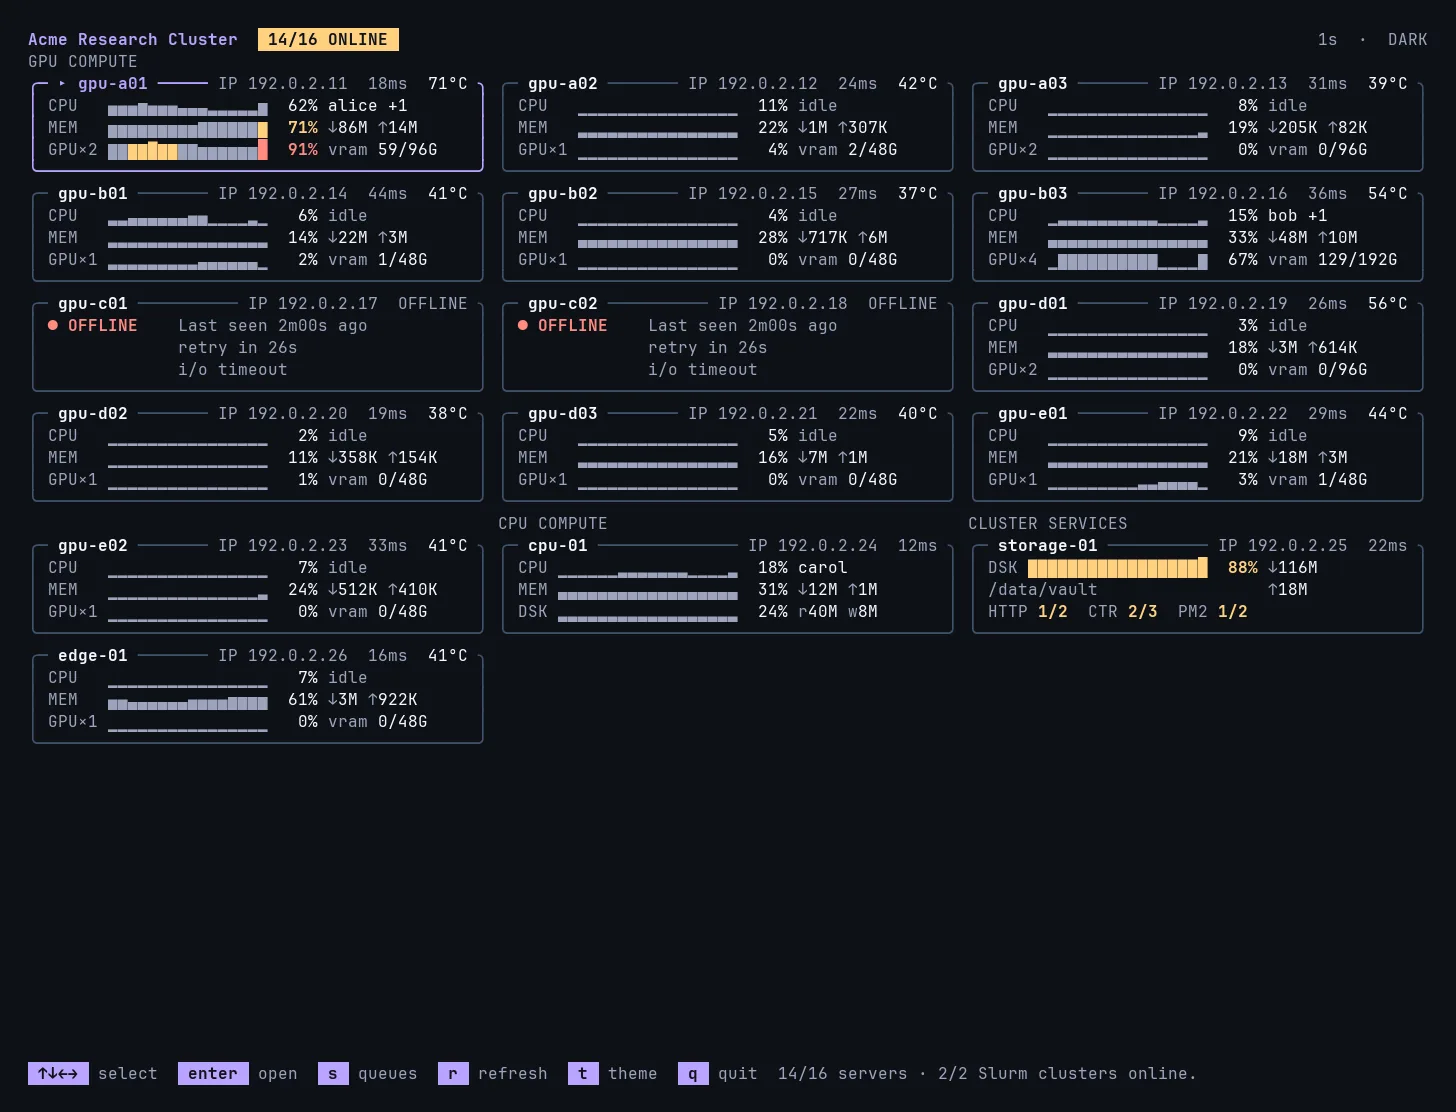
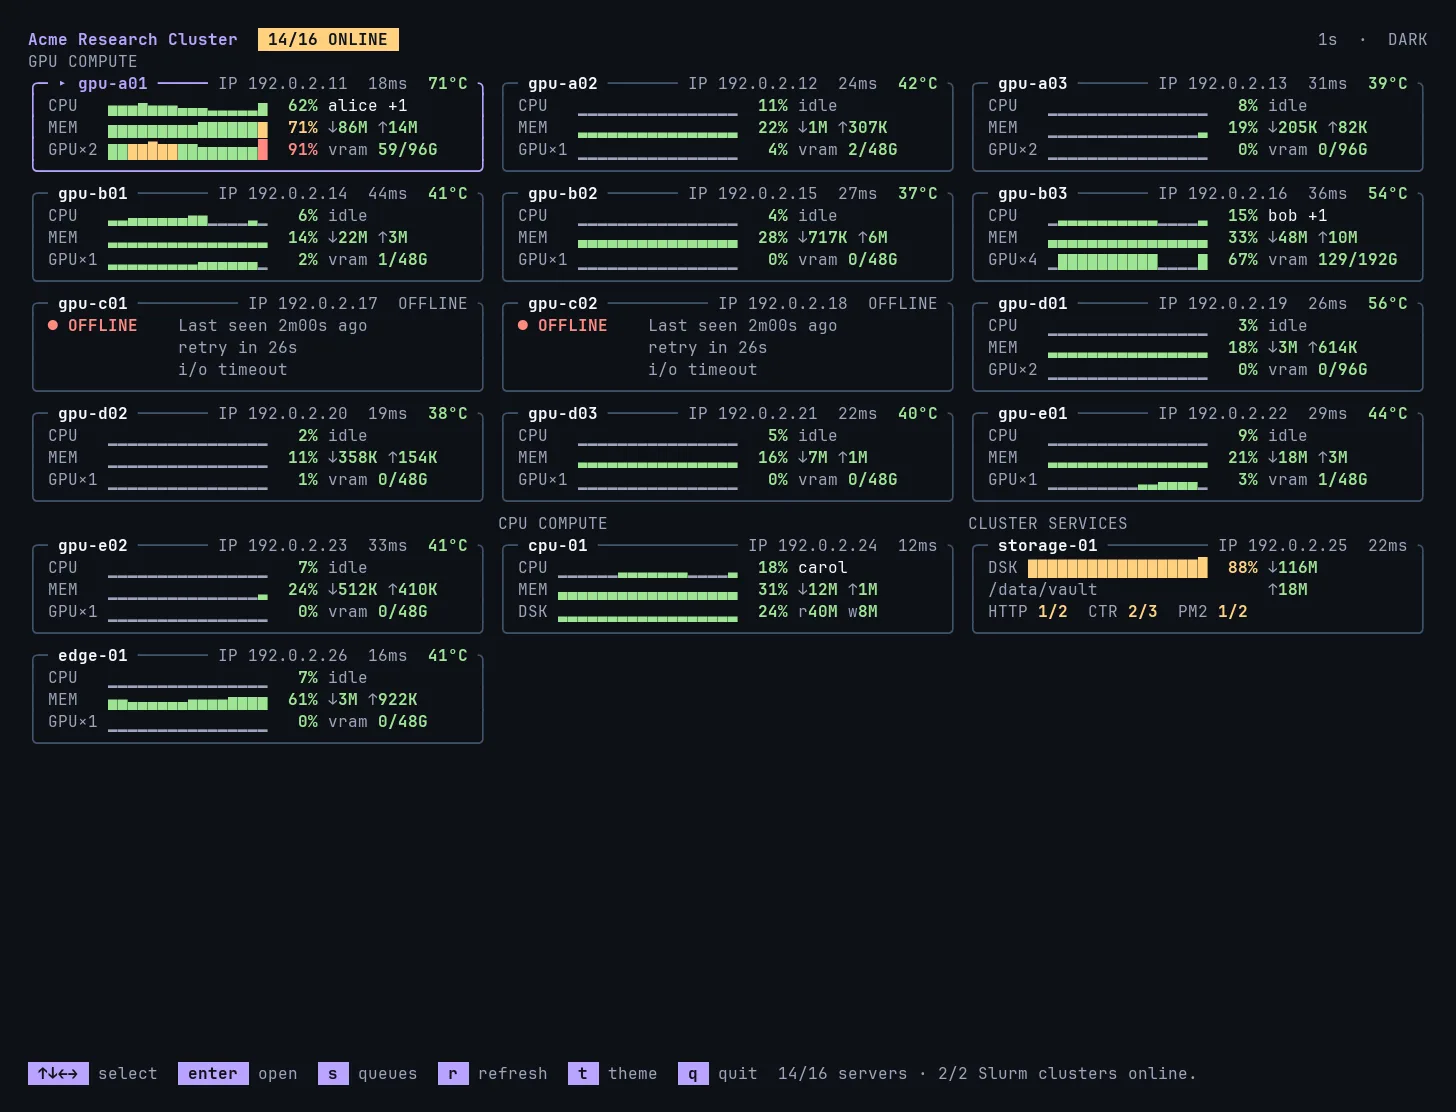
Color hub load, temperature, VRAM, and throughput by state.
Healthy sparkline columns and percents are the ok green on every card, while the idle baseline stays dim. Temperature, VRAM fill, and each throughput direction use the same scale; without a reported link speed, rates warn at 500 MiB/s and turn red at 1 GiB/s.

diff --git a/cmd/fleetty/hub.go b/cmd/fleetty/hub.go
@@ -1620,14 +1620,13 @@ func hubFixedSparkline(values []float64, width int) string {
 		if level >= len(blocks) {
 			level = len(blocks) - 1
 		}
-		style := dimStyle
-		switch usageLevel(value) {
-		case stateWarn:
-			style = warningStyle
-		case stateCrit:
-			style = dangerStyle
+		// The flat baseline stays dim so an idle row is present but quiet.
+		// Taller columns use ok / warn / crit, on every card.
+		if level == 0 {
+			parts[index] = dimStyle.Render(string(blocks[0]))
+			continue
 		}
-		parts[index] = style.Render(string(blocks[level]))
+		parts[index] = hubMeterStyle(usageLevel(value)).Render(string(blocks[level]))
 	}
 	return strings.Join(parts, "")
 }
@@ -1671,22 +1670,66 @@ func hubMetricRows(rows []struct {
 }
 
 func (m *hubModel) hubFacts(index int, snapshot monitorSnapshot, gpu bool, width int) []string {
-	third := hubRateLine("r", "w", snapshot.DiskRead, snapshot.DiskWrite, width)
+	third := hubRateLine("r", "w", snapshot.DiskRead, snapshot.DiskWrite, 0, width)
 	if gpu {
 		_, used, total, _ := hubGPUStats(snapshot.GPUs)
-		third = ansi.Truncate(dimStyle.Render("vram ")+hubMetricStyle.Render(hubVRAM(used, total)), width, "")
+		third = ansi.Truncate(dimStyle.Render("vram ")+hubMeterStyle(hubVRAMLevel(used, total)).Render(hubVRAM(used, total)), width, "")
 	}
 	return []string{
 		m.hubOccupant(index, snapshot, width),
-		hubRateLine("↓", "↑", snapshot.NetworkRX, snapshot.NetworkTX, width),
+		hubRateLine("↓", "↑", snapshot.NetworkRX, snapshot.NetworkTX, hubLinkBytesPerSec(snapshot), width),
 		third,
 	}
 }
 
-func hubRateLine(leftLabel, rightLabel string, left, right uint64, width int) string {
-	line := dimStyle.Render(leftLabel) + hubMetricStyle.Render(hubCompactRate(left)) + " " +
-		dimStyle.Render(rightLabel) + hubMetricStyle.Render(hubCompactRate(right))
+func hubRateLine(leftLabel, rightLabel string, left, right, linkBytesPerSec uint64, width int) string {
+	line := dimStyle.Render(leftLabel) + hubMeterStyle(hubThroughputLevel(left, linkBytesPerSec)).Render(hubCompactRate(left)) + " " +
+		dimStyle.Render(rightLabel) + hubMeterStyle(hubThroughputLevel(right, linkBytesPerSec)).Render(hubCompactRate(right))
 	return ansi.Truncate(line, width, "")
+}
+
+// Absolute throughput colors when a NIC does not report link speed.
+// Warn at 500 MiB/s and crit at 1 GiB/s. Disk read/write uses the same
+// cutoffs. When every interface reports a speed, each direction is colored
+// by its share of that capacity instead (70/90, same as other meters).
+const (
+	hubThroughputWarn = 500 * 1024 * 1024
+	hubThroughputCrit = 1024 * 1024 * 1024
+)
+
+func hubThroughputLevel(bytesPerSec, linkBytesPerSec uint64) stateLevel {
+	if linkBytesPerSec > 0 {
+		return usageLevel(float64(bytesPerSec) / float64(linkBytesPerSec) * 100)
+	}
+	switch {
+	case bytesPerSec >= hubThroughputCrit:
+		return stateCrit
+	case bytesPerSec >= hubThroughputWarn:
+		return stateWarn
+	default:
+		return stateOK
+	}
+}
+
+func hubLinkBytesPerSec(snapshot monitorSnapshot) uint64 {
+	if len(snapshot.NetworkInterfaces) == 0 {
+		return 0
+	}
+	var mbps uint64
+	for _, iface := range snapshot.NetworkInterfaces {
+		if iface.SpeedMbps == 0 {
+			return 0
+		}
+		mbps += iface.SpeedMbps
+	}
+	return mbps * 1000 * 1000 / 8
+}
+
+func hubVRAMLevel(used, total uint64) stateLevel {
+	if total == 0 {
+		return stateUnknown
+	}
+	return usageLevel(float64(used) / float64(total) * 100)
 }
 
 func hubCompactRate(value uint64) string {
@@ -1790,8 +1833,8 @@ func renderNASHubCard(spark []hubSparkSample, snapshot monitorSnapshot, width in
 	}, leftWidth)
 	left = append(left, dimStyle.Render(truncate(worst.Mount, leftWidth)))
 	lines := hubColumns(left, []string{
-		dimStyle.Render("↓") + hubMetricStyle.Render(hubCompactRate(snapshot.NetworkRX)),
-		dimStyle.Render("↑") + hubMetricStyle.Render(hubCompactRate(snapshot.NetworkTX)),
+		dimStyle.Render("↓") + hubMeterStyle(hubThroughputLevel(snapshot.NetworkRX, hubLinkBytesPerSec(snapshot))).Render(hubCompactRate(snapshot.NetworkRX)),
+		dimStyle.Render("↑") + hubMeterStyle(hubThroughputLevel(snapshot.NetworkTX, hubLinkBytesPerSec(snapshot))).Render(hubCompactRate(snapshot.NetworkTX)),
 	}, width)
 	lines[2] = ansi.Truncate(renderNASServiceLine(snapshot, width), width, "")
 	return lines

diff --git a/cmd/fleetty/machine.go b/cmd/fleetty/machine.go
@@ -125,6 +125,8 @@ type networkInterfaceInfo struct {
 	RXTotal, TXTotal   uint64
 	RXErrors, TXErrors uint64
 	RXDrops, TXDrops   uint64
+	// SpeedMbps is the NIC link speed. Zero means the host did not report it.
+	SpeedMbps uint64
 }
 
 type filesystemInfo struct {
@@ -161,6 +163,7 @@ type networkDeviceCounters struct {
 	rx, tx             uint64
 	rxErrors, txErrors uint64
 	rxDrops, txDrops   uint64
+	speedMbps          uint64
 }
 
 type processNetworkCounters struct {
@@ -284,6 +287,7 @@ func (c *metricsCollector) collectNetwork(snapshot *monitorSnapshot) error {
 				Name: name, RXTotal: counters.rx, TXTotal: counters.tx,
 				RXErrors: counters.rxErrors, TXErrors: counters.txErrors,
 				RXDrops: counters.rxDrops, TXDrops: counters.txDrops,
+				SpeedMbps: counters.speedMbps,
 			}
 			if previous, ok := c.previousInterfaces[name]; ok && c.haveNet && seconds > 0 {
 				info.RX = uint64(float64(counterDelta(counters.rx, previous.rx)) / seconds)
@@ -341,9 +345,27 @@ func readNetworkDevices() (map[string]networkDeviceCounters, error) {
 		devices[name] = networkDeviceCounters{
 			rx: value(0), rxErrors: value(2), rxDrops: value(3),
 			tx: value(8), txErrors: value(10), txDrops: value(11),
+			speedMbps: readLinkSpeedMbps(name),
 		}
 	}
 	return devices, nil
+}
+
+// readLinkSpeedMbps reads the Linux sysfs NIC speed. Zero means unknown
+// (missing file, down link, or a non-Linux host).
+func readLinkSpeedMbps(name string) uint64 {
+	if runtime.GOOS != "linux" || name == "" || strings.Contains(name, "/") {
+		return 0
+	}
+	data, err := os.ReadFile("/sys/class/net/" + name + "/speed")
+	if err != nil {
+		return 0
+	}
+	speed, err := strconv.ParseInt(strings.TrimSpace(string(data)), 10, 64)
+	if err != nil || speed <= 0 {
+		return 0
+	}
+	return uint64(speed)
 }
 
 func readDefaultNetworkInterface() string {

diff --git a/cmd/fleetty/hub_grid_test.go b/cmd/fleetty/hub_grid_test.go
@@ -400,6 +400,13 @@ func TestHubSparklineIsFixedScaleAndOneColumnPerSample(t *testing.T) {
 	if idle != "▁▁▁▁" {
 		t.Fatalf("idle samples lost the baseline or were scaled up: %q", idle)
 	}
+	if strings.Contains(hubFixedSparkline([]float64{0, 1, 2, 3}, 4), "38;2;158;228;147") {
+		t.Fatal("idle baseline was painted ok-green")
+	}
+	healthy := hubFixedSparkline([]float64{50}, 1)
+	if !strings.Contains(healthy, "38;2;158;228;147") {
+		t.Fatalf("healthy column stayed gray: %q", healthy)
+	}
 	hot := hubFixedSparkline([]float64{4, 100}, 4)
 	plain := ansi.Strip(hot)
 	if !strings.HasPrefix(plain, "··") || !strings.Contains(plain, "█") || !strings.Contains(plain, "▁") {
@@ -414,6 +421,19 @@ func TestHubSparklineIsFixedScaleAndOneColumnPerSample(t *testing.T) {
 	}
 	if len(busy) != hubSparkCap || busy[len(busy)-1].CPU != float64(hubSparkCap+4) {
 		t.Fatalf("spark ring = %d last %.0f", len(busy), busy[len(busy)-1].CPU)
+	}
+	if hubThroughputLevel(400<<20, 0) != stateOK || hubThroughputLevel(500<<20, 0) != stateWarn || hubThroughputLevel(1<<30, 0) != stateCrit {
+		t.Fatal("absolute throughput fallback thresholds drifted")
+	}
+	link := uint64(10000) * 1000 * 1000 / 8
+	if hubThroughputLevel(link*8/10, link) != stateWarn || hubThroughputLevel(link*95/100, link) != stateCrit {
+		t.Fatal("link-speed throughput scale drifted")
+	}
+	if hubVRAMLevel(59, 96) != stateOK || hubVRAMLevel(80, 100) != stateWarn || hubVRAMLevel(95, 100) != stateCrit {
+		t.Fatal("VRAM ratio scale drifted")
+	}
+	if temperatureLevel(74) != stateOK || temperatureLevel(75) != stateWarn || temperatureLevel(85) != stateCrit {
+		t.Fatal("temperature scale drifted")
 	}
 }
 

diff --git a/cmd/fleetty/theme.go b/cmd/fleetty/theme.go
@@ -205,16 +205,18 @@ func temperatureReading(celsius int, text string) string {
 	return stateStyle(temperatureLevel(celsius)).Render(text)
 }
 
-// hubMeterStyle colors a hub meter. A healthy reading stays gray-white.
-// Only warn and crit introduce yellow or red.
+// hubMeterStyle colors a hub reading. Healthy is the ok green, then yellow
+// and red. Unknown stays dim. Focus does not change the scale.
 func hubMeterStyle(level stateLevel) lipgloss.Style {
 	switch level {
 	case stateWarn:
 		return warningStyle
 	case stateCrit, stateOffline:
 		return dangerStyle
+	case stateUnknown:
+		return dimStyle
 	default:
-		return hubMetricStyle
+		return okStyle
 	}
 }
 
